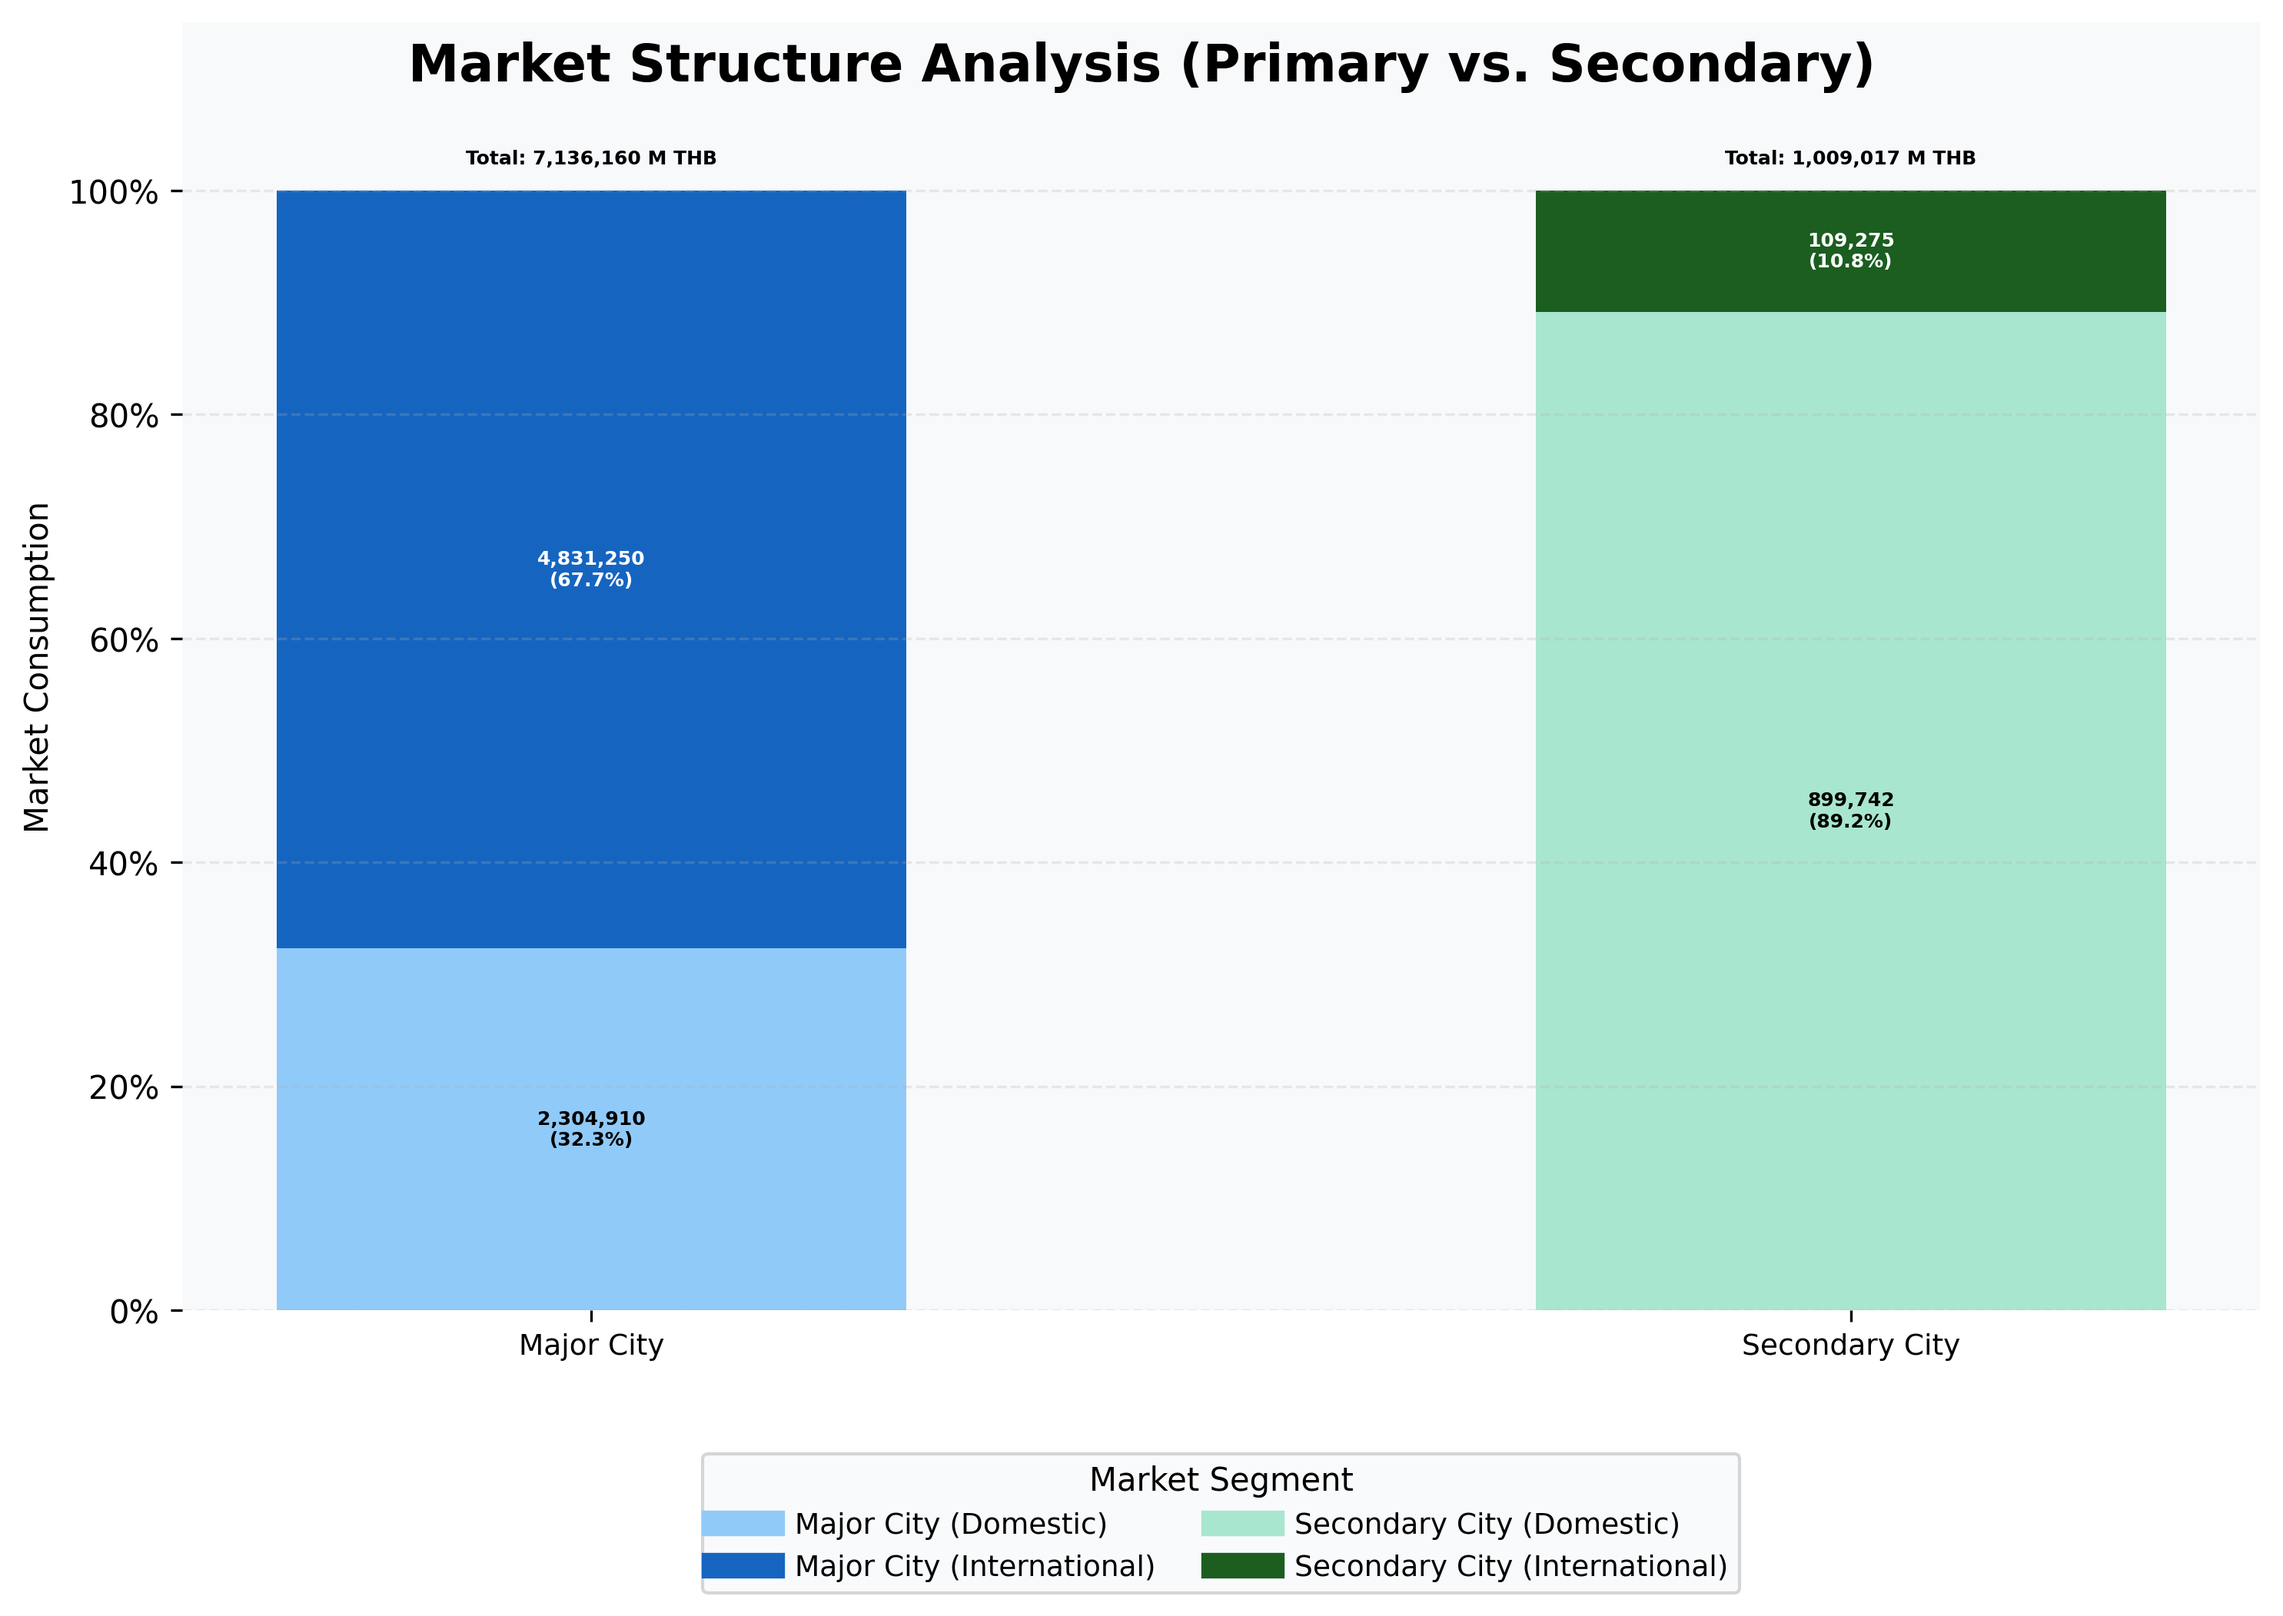
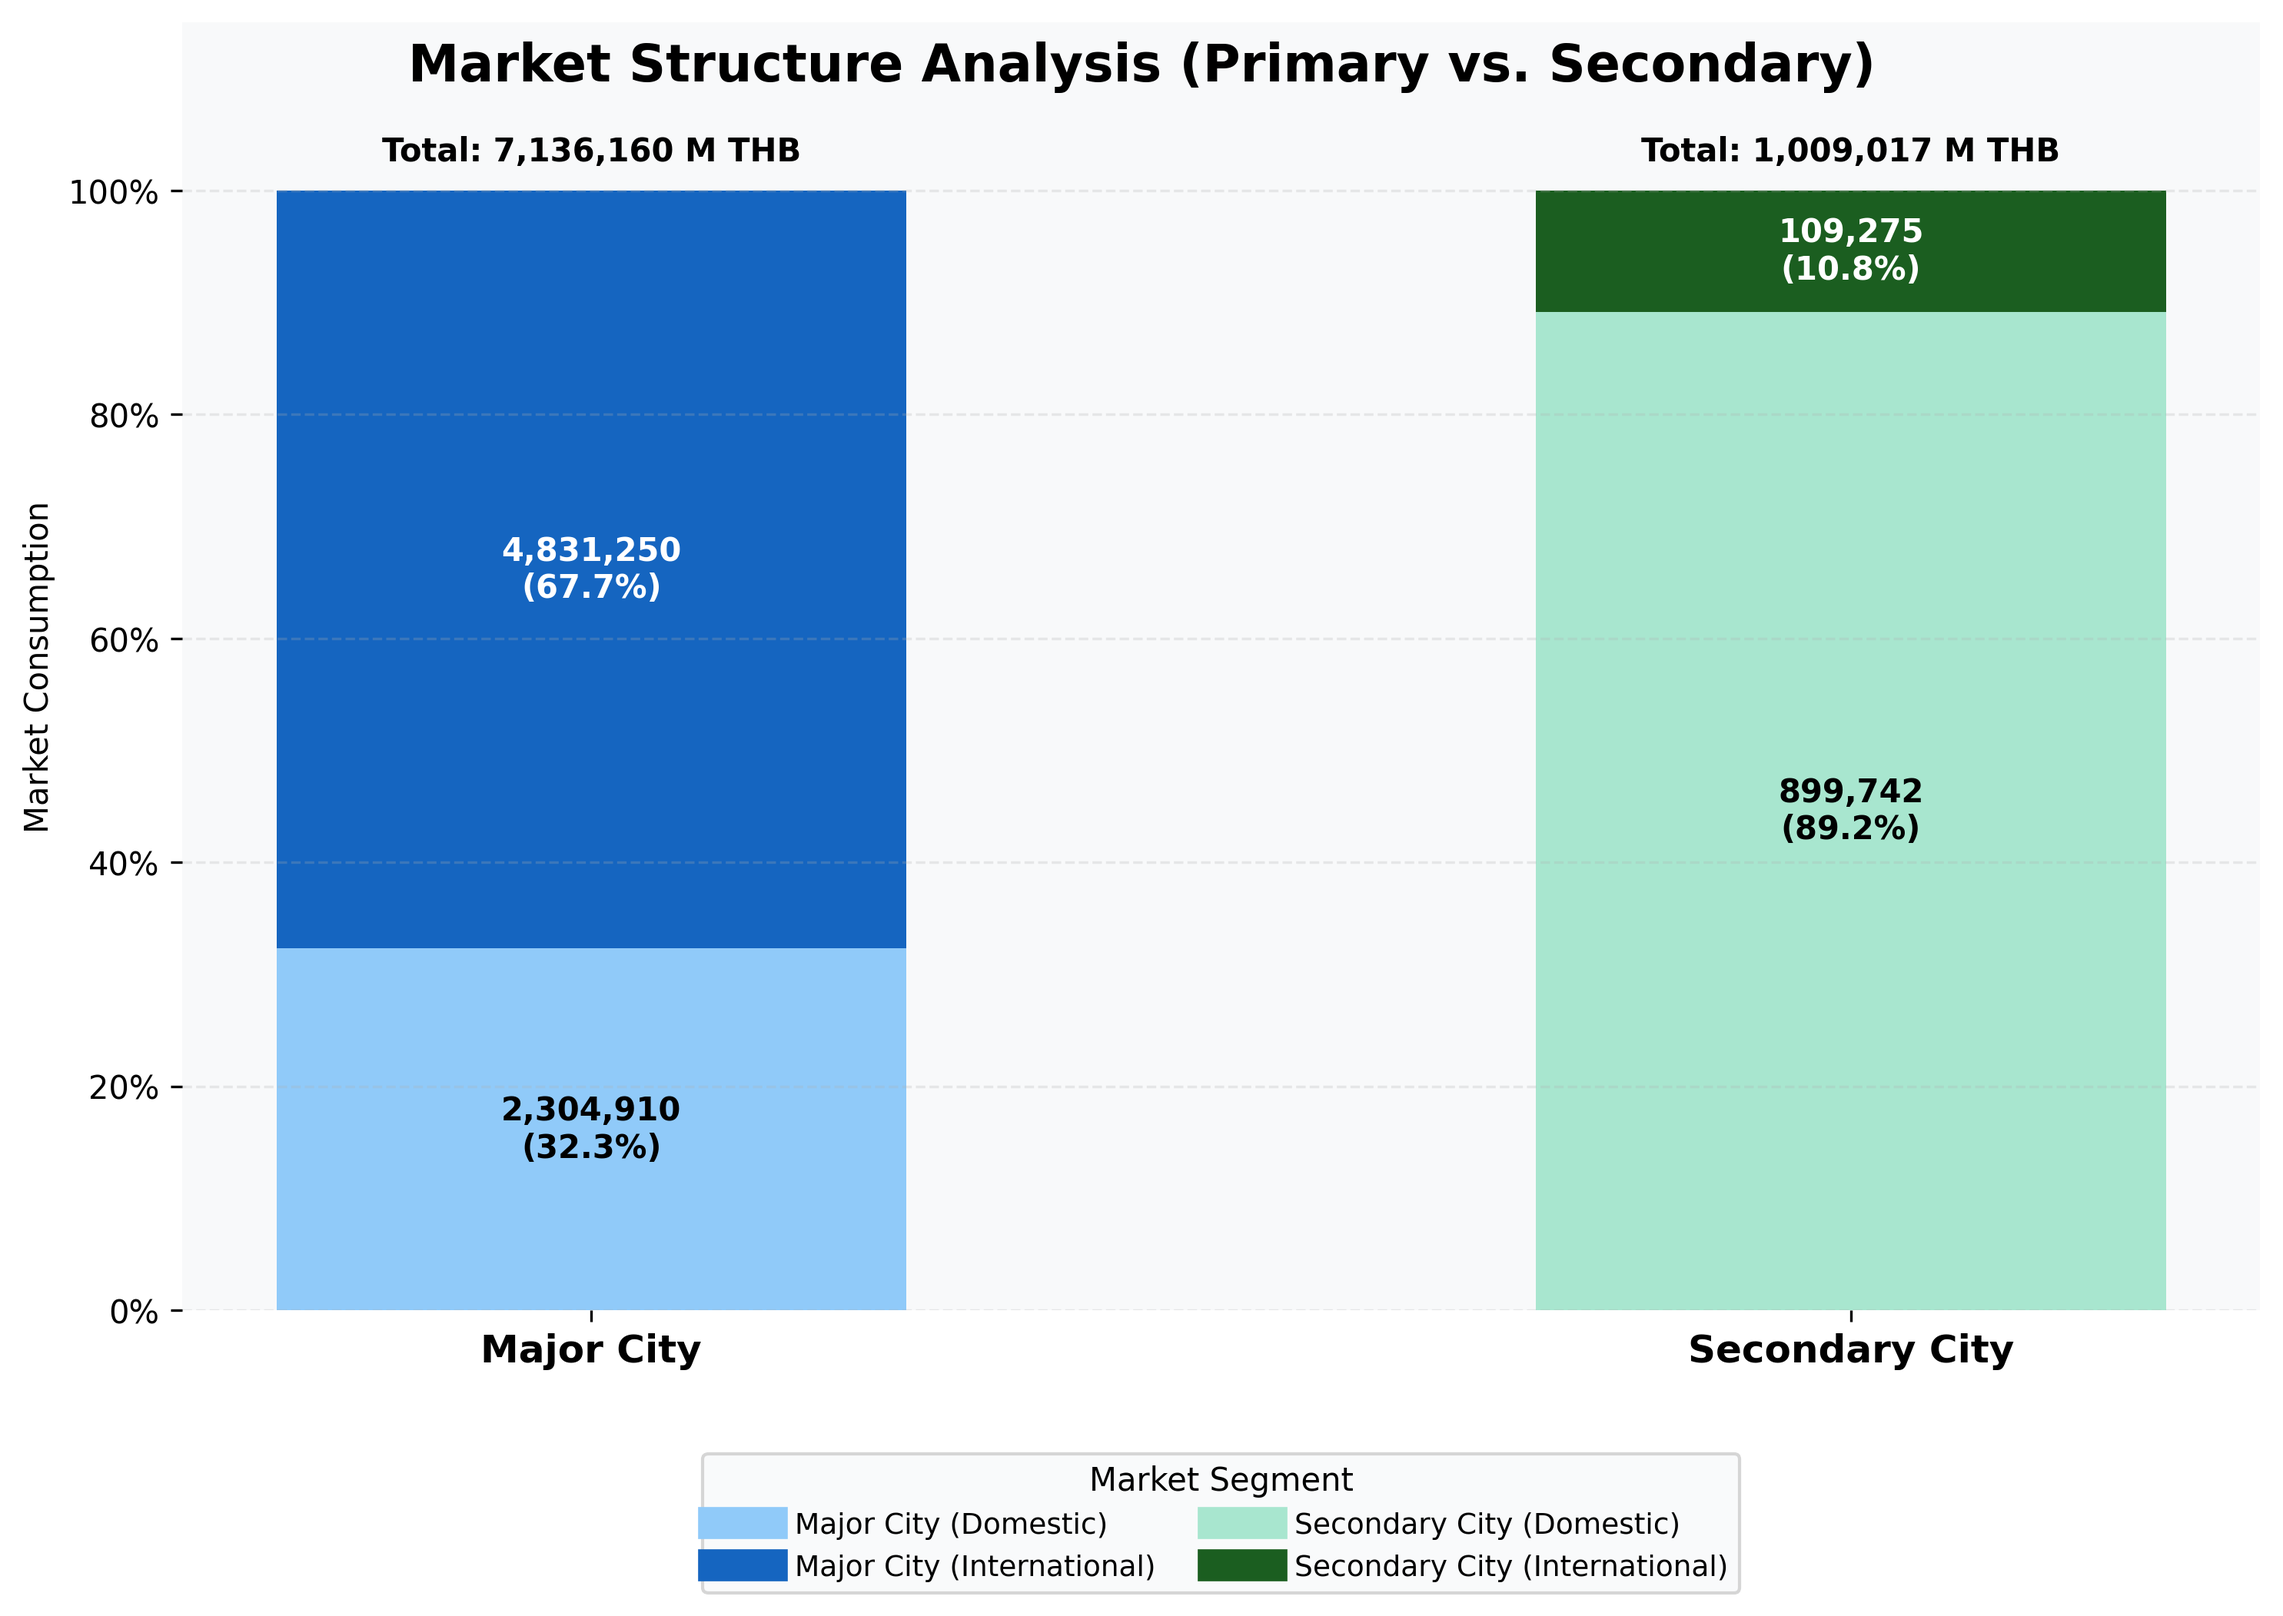
update cleaned data and script

diff --git a/visualizations/07_Aggregated_Comparison.py b/visualizations/07_Aggregated_Comparison.py
@@ -72,20 +72,20 @@ for i in range(len(labels)):
     ax.text(i, 102,
             f'Total: {total_revs[i]:,.0f} M THB',
             ha='center', va='bottom',
-            fontsize=6, fontweight='bold')
+            fontsize=10, fontweight='bold')
 
     ax.annotate(
         f'{thai_revs[i]:,.0f}\n({pct_thai[i]:.1f}%)',
         (i, pct_thai[i] / 2),
         ha='center', va='center',
-        fontsize=6, fontweight='bold', color='black'
+        fontsize=10, fontweight='bold', color='black'
     )
 
     ax.annotate(
         f'{fore_revs[i]:,.0f}\n({pct_fore[i]:.1f}%)',
         (i, pct_thai[i] + pct_fore[i] / 2),
         ha='center', va='center',
-        fontsize=6, fontweight='bold', color='white'
+        fontsize=10, fontweight='bold', color='white'
     )
 
 # 6. TITLE (ใช้ suptitle กันหาย 100%)
@@ -101,7 +101,7 @@ ax.set_title('', fontsize=12, fontweight='bold')
 
 # Axis
 plt.ylabel('Market Consumption', fontsize=10)
-plt.xticks(fontsize=9)
+plt.xticks(fontsize=12, fontweight='bold')
 
 # Y scale + ticks
 ax.set_ylim(0, 115)
@@ -113,10 +113,10 @@ ax.grid(axis='y', linestyle='--', linewidth=0.8, alpha=0.25)
 
 # Legend
 legend_elements = [
-    Line2D([0], [0], color='#90CAF9', lw=8, label='Major City (Domestic)'),
-    Line2D([0], [0], color='#1565C0', lw=8, label='Major City (International)'),
-    Line2D([0], [0], color='#A8E6CF', lw=8, label='Secondary City (Domestic)'),
-    Line2D([0], [0], color='#1B5E20', lw=8, label='Secondary City (International)')
+    Line2D([0], [0], color='#90CAF9', lw=10, label='Major City (Domestic)'),
+    Line2D([0], [0], color='#1565C0', lw=10, label='Major City (International)'),
+    Line2D([0], [0], color='#A8E6CF', lw=10, label='Secondary City (Domestic)'),
+    Line2D([0], [0], color='#1B5E20', lw=10, label='Secondary City (International)')
 ]
 
 ax.legend(

diff --git a/visualizations/01_C_YieldPerHead.py b/visualizations/01_C_YieldPerHead.py
@@ -74,7 +74,7 @@ for p in ax.patches:
         ha='center', va='bottom',
         xytext=(0, 8),
         textcoords='offset points',
-        fontsize=10,
+        fontsize=14,
         fontweight='bold',
         color='#2c3e50'
     )
@@ -90,12 +90,12 @@ ax.set_title(
 )
 
 ax.set_xlabel('')
-ax.set_ylabel('Average Real Revenue (THB per Person)', fontsize=10, labelpad=10)
+ax.set_ylabel('Average Real Revenue (THB per Person)', fontsize=14, labelpad=10)
 
 # ─── Axis Limits & Ticks ──────────────────────────────────────────────────────
 ax.set_ylim(0, 8500) # เพิ่มพื้นที่ด้านบนนิดหน่อยเพื่อให้ Label ไม่ชนขอบ
 ax.set_yticks(range(0, 8001, 1000))
-ax.tick_params(axis='both', labelsize=10)
+ax.tick_params(axis='both', labelsize=14)
 
 # ─── Grid & Despine ───────────────────────────────────────────────────────────
 ax.yaxis.grid(True, linestyle='--', alpha=0.6, color='#bdc3c7')
@@ -107,7 +107,7 @@ ax.text(
     0.5, -0.15,
     "* Yield = (Real Revenue × 1,000,000) / Total Visitors",
     ha='center', va='center', transform=ax.transAxes,
-    fontsize=9, style='italic', color='#7f8c8d'
+    fontsize=12, style='italic', color='#7f8c8d'
 )
 
 # ─── Layout Adjustment ────────────────────────────────────────────────────────

diff --git a/visualizations/02_Market_share_Distribution.py b/visualizations/02_Market_share_Distribution.py
@@ -54,16 +54,16 @@ ax.set_xlim(pivot.index.min(), pivot.index.max())
 ax.margins(x=0)
 
 # ─── Layout Fix (no overlap) ───
-plt.subplots_adjust(top=0.85)
+plt.subplots_adjust(top=0.83)
 
 # ─── Legend ───
 ax.legend(
     loc='lower left',
-    bbox_to_anchor=(0, 1.01),
+    bbox_to_anchor=(0, 1.0),
     ncol=2,
     frameon=False,
-    fontsize=9,
-    title_fontsize=10
+    fontsize=14,
+    title_fontsize=14
 )
 
 # ─── Subtitle ───
@@ -71,7 +71,7 @@ ax.text(
     0.5, 1.08,
     "100% stacked distribution of visitors by city type · Jan 2023 – Dec 2025",
     transform=ax.transAxes,
-    fontsize=12,
+    fontsize=14,
     color='#888888',
     ha='center'
 )
@@ -81,7 +81,7 @@ fig.suptitle(
     "Tourism Redistribution Share",
     x=0.5,
     ha='center',
-    fontsize=16,
+    fontsize=18,
     fontweight='bold',
     y=0.95
 )
@@ -91,8 +91,8 @@ ax.yaxis.set_major_formatter(PercentFormatter(1.0))
 ax.set_ylim(0, 1)
 ax.set_yticks([0.1,0.2,0.3,0.4,0.5,0.6,0.7,0.8,0.9,1.0])
 
-ax.set_ylabel("Visitor Share", fontsize=10, color='#666')
-ax.tick_params(axis='both', which='major', labelsize=9)
+ax.set_ylabel("Visitor Share", fontsize=14, color='#666')
+ax.tick_params(axis='both', which='major', labelsize=14)
 
 # ─── Save ───
 os.makedirs('visualizations', exist_ok=True)
